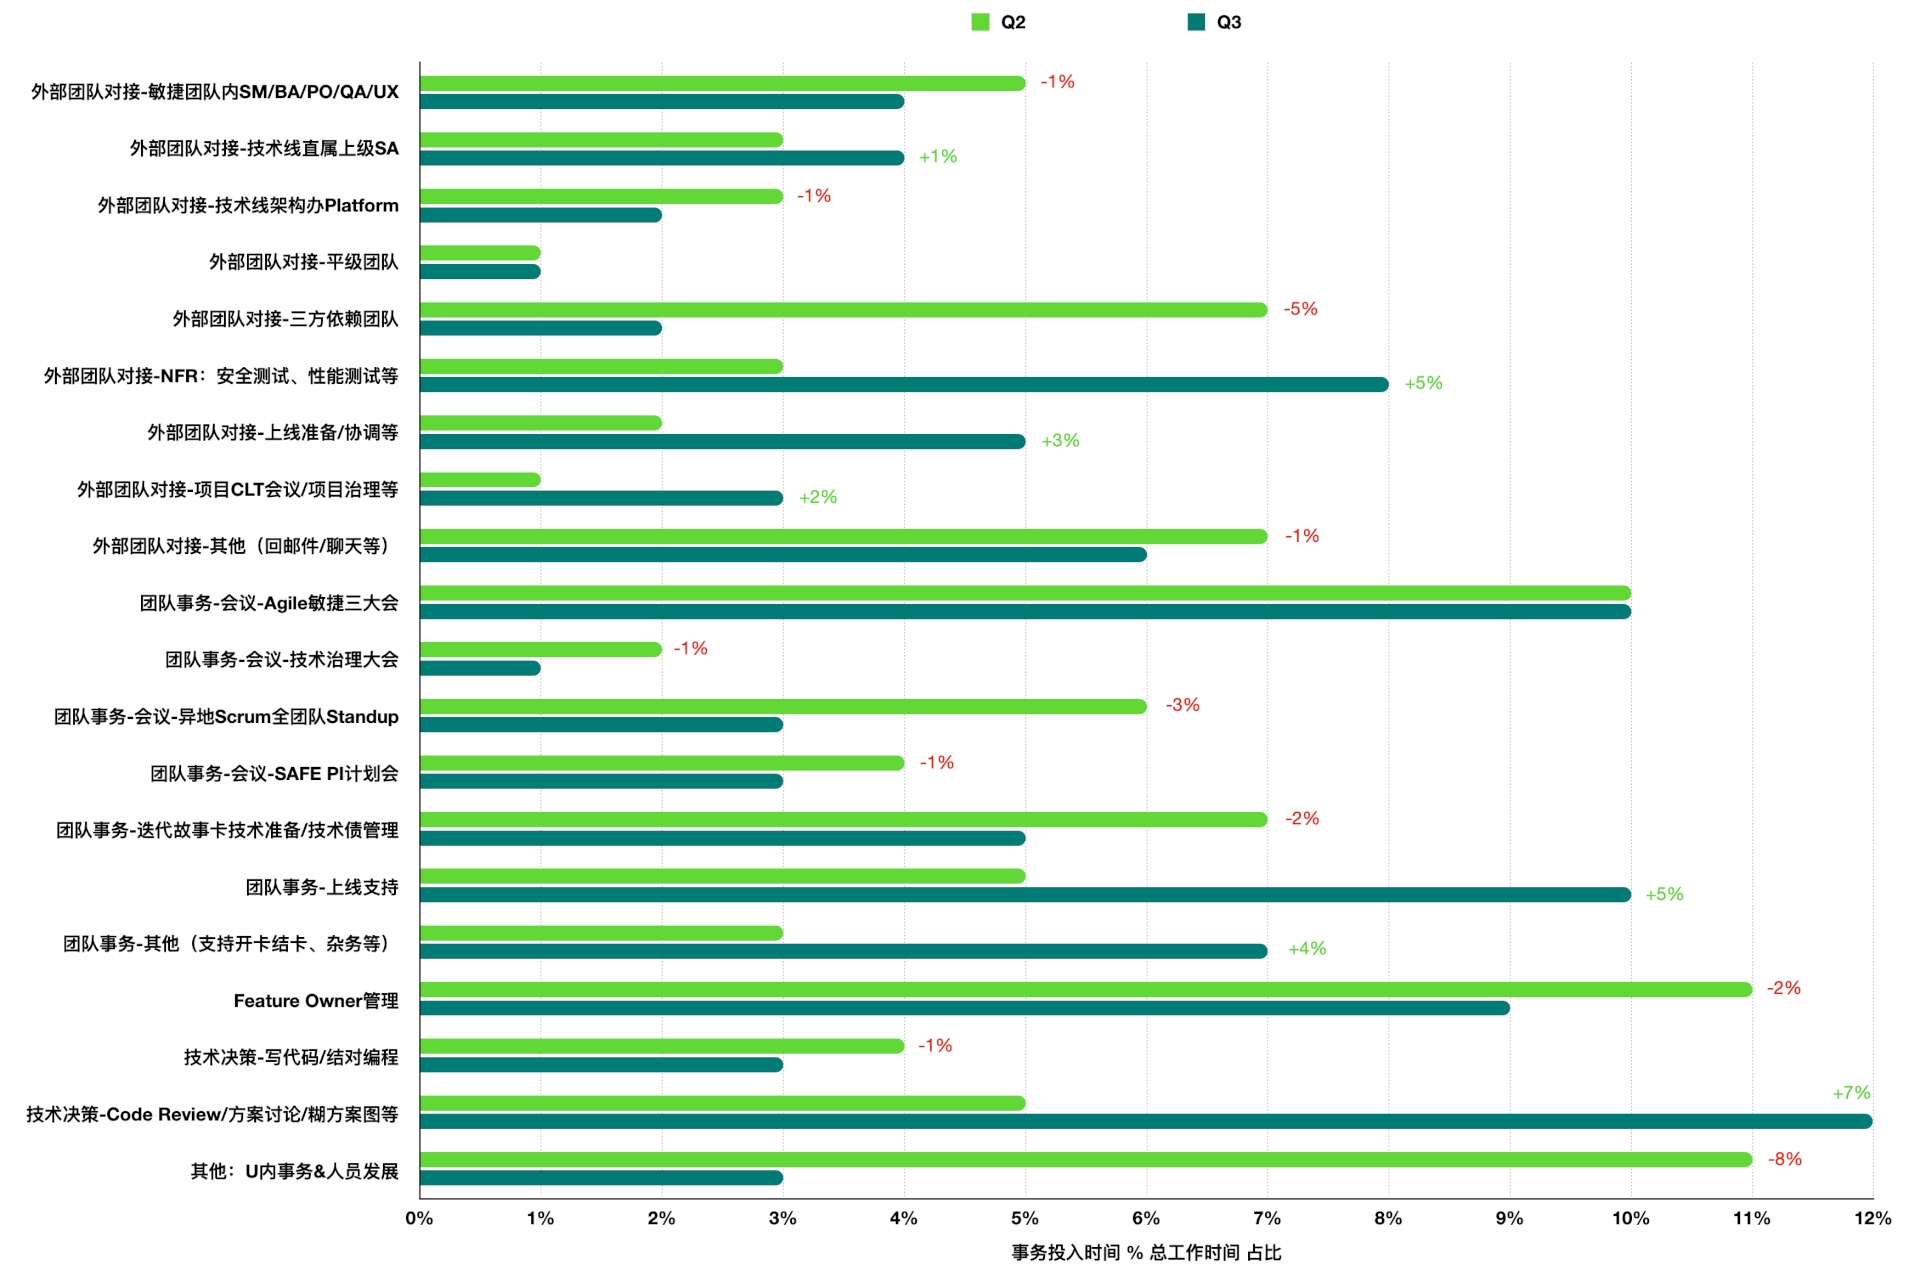
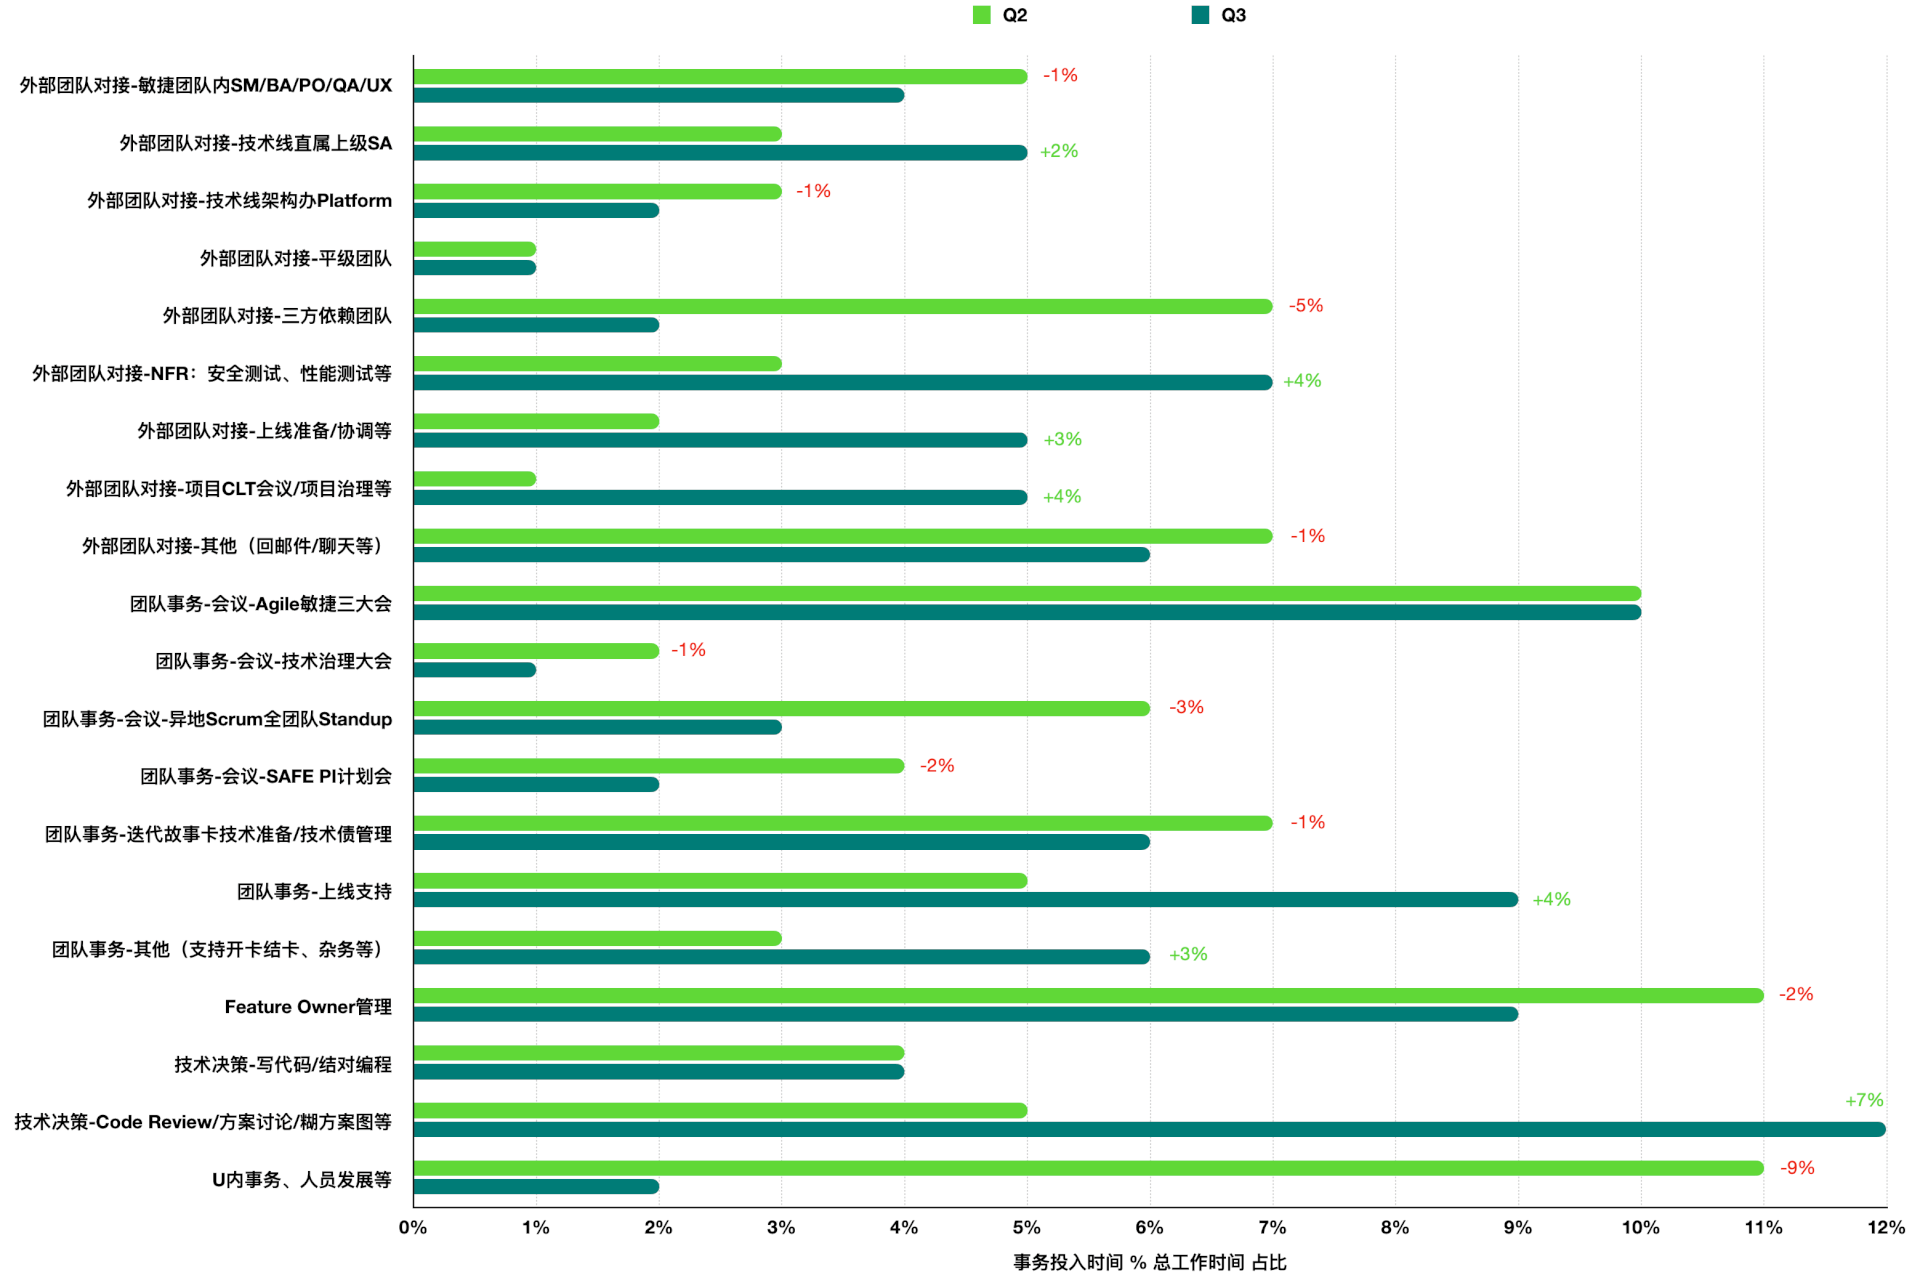
🤖 Deploying to gh-pages from master 5a61686e

diff --git a/_posts/2023-08-05-my-tech-lead-journey-iv.md b/_posts/2023-08-05-my-tech-lead-journey-iv.md
@@ -5,8 +5,6 @@ category: career, tech-lead
 
 本文从“重要-紧急三象限”、会议管理、PDCA等几个方面，给出了一些详细且可落地的时间管理建议，完全不虚。
 
-<Summary WIP>本文仍然是草稿阶段。
-
 为什么要做时间管理？对我来说，很现实的一个原因是为了控制焦虑感。一方面是从业几年之后，主观意愿上不如刚入行前几年下班之后所有时间都仍然投入在工作上；一方面是担任TL工作之后事务繁多，如果不主动做时间管理则必然导致写代码的时间在不自觉间被继续压缩。既不能无限加班，又想保证技术上的时间投入，那么就必然要求我有意识地对8小时的工作时间进行主动管理。
 
 嗯，这里偏向于讨论工作8小时的时间管理。工作8小时以外做精细的时间管理效果是好是坏暂无定论，在此不表。
@@ -128,31 +126,6 @@ quadrantChart
   />
 </p>
 
-从这个对比图中，我们不仅可以看出改进的效果，同时还能看到各个类目用时的变化过程，并再次从中得出有益的洞见：
-
-<details>
-  <summary>Todo：Q3时间定下来后才能产出一些洞见，同时需要更新一下本篇的图</summary>
-
-* 技术相关的事情从原来的10%→到14%了。确实是在改进中的，但是改进的速度并没有想象中那么多、那么快。
-* 外部团队对接、全团队与PO每日同步会、迭代故事卡技术准备、Feature Owner这几个类目都是达到了效果的，一共砍出来12%的时间
-* 为啥这12%只有4%落到了技术相关事务上呢？主要是因为Q3是团队第一次上生产环境，安全测试有很多问题要跟进，然后团队是第一次上线缺乏经验、有很多会议要协调，这两个部分分别增加了5%、8%的时间占用。读者如果对数字有所敏感，就应该知道任何加起来超过20%的时间都意味着一段时间的密集投入
-* WIP 你会发现你想争取20%的时间移交到技术侧，那么必然是这里出4%，那里出2%，翻译一下，就是每个月从一个类目时间里提高2-4个小时的时间效率的事情，所以，不要看不起30分钟粒度的效率提升。看似微不足道的数字里头（2%这样的改进），其实包含了许多实打实的改进。这个视角看数据更有敬畏感，很有意思。
-* WIP 由于TL的工作时间粒度往往是以25分钟作为单位的，你不记录时间，就很难精确知道究竟是哪些地方用时多了，也很难做出基于数据的改进。当然了，有人可能会说，记录太麻烦了，我就不记，定性地确定改进方向行不行呢？~~爱记不记~~
-* 几个改进方向：过度关注细节、事务不熟悉导致用时增加 -> 加强学习、效率不高导致用时增加 -> 刻意练习。
-
-### 过度关注细节
-
-### 事务不熟悉
-
-* 补充武器库，不熟悉的就要学，比如第二篇的技术地图
-* 邮件、IM聊天沟通：请见下篇，沟通的技巧，如何又快又好地沟通到位
-
-### 效率不高
-
-* 快捷键：Dev时期的基本技巧。刻意练习
-
-</details>
-
 <details>
   <summary>点击展开Q3工时细节</summary>
 
@@ -198,8 +171,39 @@ pie showData title TL working hours - Breaking Down
 ```
 </details>
 
+从这个对比图中，我们不仅可以直观看到改进后的效果，还可以深入到每个类目中探求变化原因以及下一步的调整计划。首先从大面上看，**我最关心的技术相关事宜从原来的10%→到16%了**。确实是在改进中的，只是改进的速度并没有想象中那么多、那么快。
+
+接着，看看我们针对Q2的用时做出的几个方面的针对性调整效果如何：
+
+* Feature Owner管理、迭代故事卡技术准备、全团队与PO每日同步会这几个类目都是达到了效果的，一共砍出来6%的时间
+* 外部团队对接这块，相比Q2一共还多了约6%的时间；而上线支持、其他杂务这两块相比Q2也是一共增加了7%的时间
+
+再深入一点看：
+
+* 外部团队对接这个大类下，增加的时间主要是上线相关的活动（↑7%），以及更多CLT层面的会议及项目治理（↑4%），共↑11%
+* 三方依赖对接及人员发展的用时减少分别是↓5%和↓9%，共↓14%
+* 上线相关的活动不仅涉及外部团队对接，同样有团队内部的工作，这部分工作总共↑15%，总用时占25%
+  * 因为刚好这个季度第一次上线，涉及的外部团队协调工作↑3%，在团队内部支持上线相关活动的时间支出也↑4%，一共↑7%
+  * 此外，因为上线也涉及到安全测试、性能测试等事宜，这方面涉及的外部协调↑4%，内部事务也↑4%（在FO管理细目中），一共↑8%
+* 团队杂务也略微↑3%。这个子类目过于细节，也没法深入分析了，就这样吧
+
+首先，上线及相关的安全测试和性能测试是本季度的部分主要工作，相比上个季度需要更多的关注。读者如果对数字敏感，应该能感受到任何账面上超过25%的时间都意味着一段相当密集的时间投入。其次，由于集成工作趋近完成及组织架构的调整，三方依赖对接和组织人员发展的工作同样自然减少。同时在CLT层面的项目治理上时间投入也略有增加，这也算是正事，希望下个季度这部分工作能有更多产出，而不仅仅停留在KPI和糊弄工作的阶段。最后，尽管有这么多涌现的事务，本季度在技术上的时间投入仍然能稳步增加，这说明了上个季度定下来的时间管理策略总体上是非常成功的。
+
+同时，我们可以得到下个季度的努力方向：
+
+* 技术卓越投入时间期望继续稳步增加，**更多学习补充工具库以提升能力和工作效率**
+* Feature Owner管理及迭代故事卡准备两件事，**可以加大放手力度，把握好抓节点和太深入细节的平衡**
+* 在沟通开会方面**继续保持高效，甚至可以继续下调投入时间，克服放手沟通的不适感，少开会，开好会**
+* 本季度增加2%时间用来**管理SA卓有成效，继续保持，确保CLT工作和项目治理有更务实、更优质的产出**
+
+通过两轮精细的基于数据的复盘分析，我（们）可以精确地调整不同类型工作的投入时间。每个类目的调整比例都不算很大，也就是2%左右，4%都已经是非常显著的工作重心变化了。而2%~4%其实也就是每个月2-4个小时，看着不多，但是谁调整谁知道，要在这个调整过程仍然保证对应工作的输出质量，还是考验能力的。如果不定量记录你的工作用时，面对繁杂的工作，你很难确切知道哪几类的事情需要你关注和优化。
+
+**不要看不起30分钟粒度的效率提升。看似微不足道的数字里头，其实包含了许多实打实的改进**。对微小的数据也要有敬畏感。背后故事其实也很多。
+
+~~然后记录用时太累了不想干了。分析出结果了就好，后面的工作从定量转到定性即可，还是抓大放小。~~
+
 <details>
-  <summary>其他疑问</summary>
+  <summary>Todolist: 其他疑问</summary>
 
 * 习惯性分配工作，那么TL究竟干哪些活？
 * 如何管理自己的时间？没有学习技术或编码的时间、担心降低自己的长期竞争力怎么办？
@@ -207,9 +211,12 @@ pie showData title TL working hours - Breaking Down
   * 写什么样的代码？项目的架构代码、底层核心代码（少有这样的核心）（前两者一般在项目启动前期有机会写）、故事全流程代码、小巧无依赖的Story、想学习技术栈的Story等；
   * TL写代码时间减少，如何保持技术输出？掌握新技术直到足以使你保持技术判断力的程度（方案选择标准是什么、CR建议针对性、问题定位、能做工作量评估）、保持技术关注度（以能达到选用不同的技术栈完成不同的项目）以提升技术见识和品位，做出必要的技术创新
   * 如何挤出时间来？世纪难题。加班，使自己的学习方向与项目方向一致，则加班=学习精进；
-* 那些牛逼的人需要管理时间吗？他们一天24小时都是如何度过的？
-  
+* 那些牛逼的人需要管理时间吗？他们一天24小时都是如何度过的？ 
 </details>
+
+## 总结
+
+本文其实很简单，就是通过“重要-紧急”三象限、会议管理、通过记录工时PDCA等方法来做到更加可衡量的时间管理。三象限中我们得出的洞见是，要花时间把一两件真正**重要**的事情做实做好；会议管理的部分，有许多可用的小建议，比如每周/每天开工前安排一下优先级和时间分配、明确沟通结构并主动约会、学会拒绝可去可不去，甚至没有明确议程的会议；最后讲PDCA是一个反省回顾的有力工具，可以帮你真正有效、定量地优化时间安排，是我比较喜欢的时间管理手段。
 
 #### 参考
 
